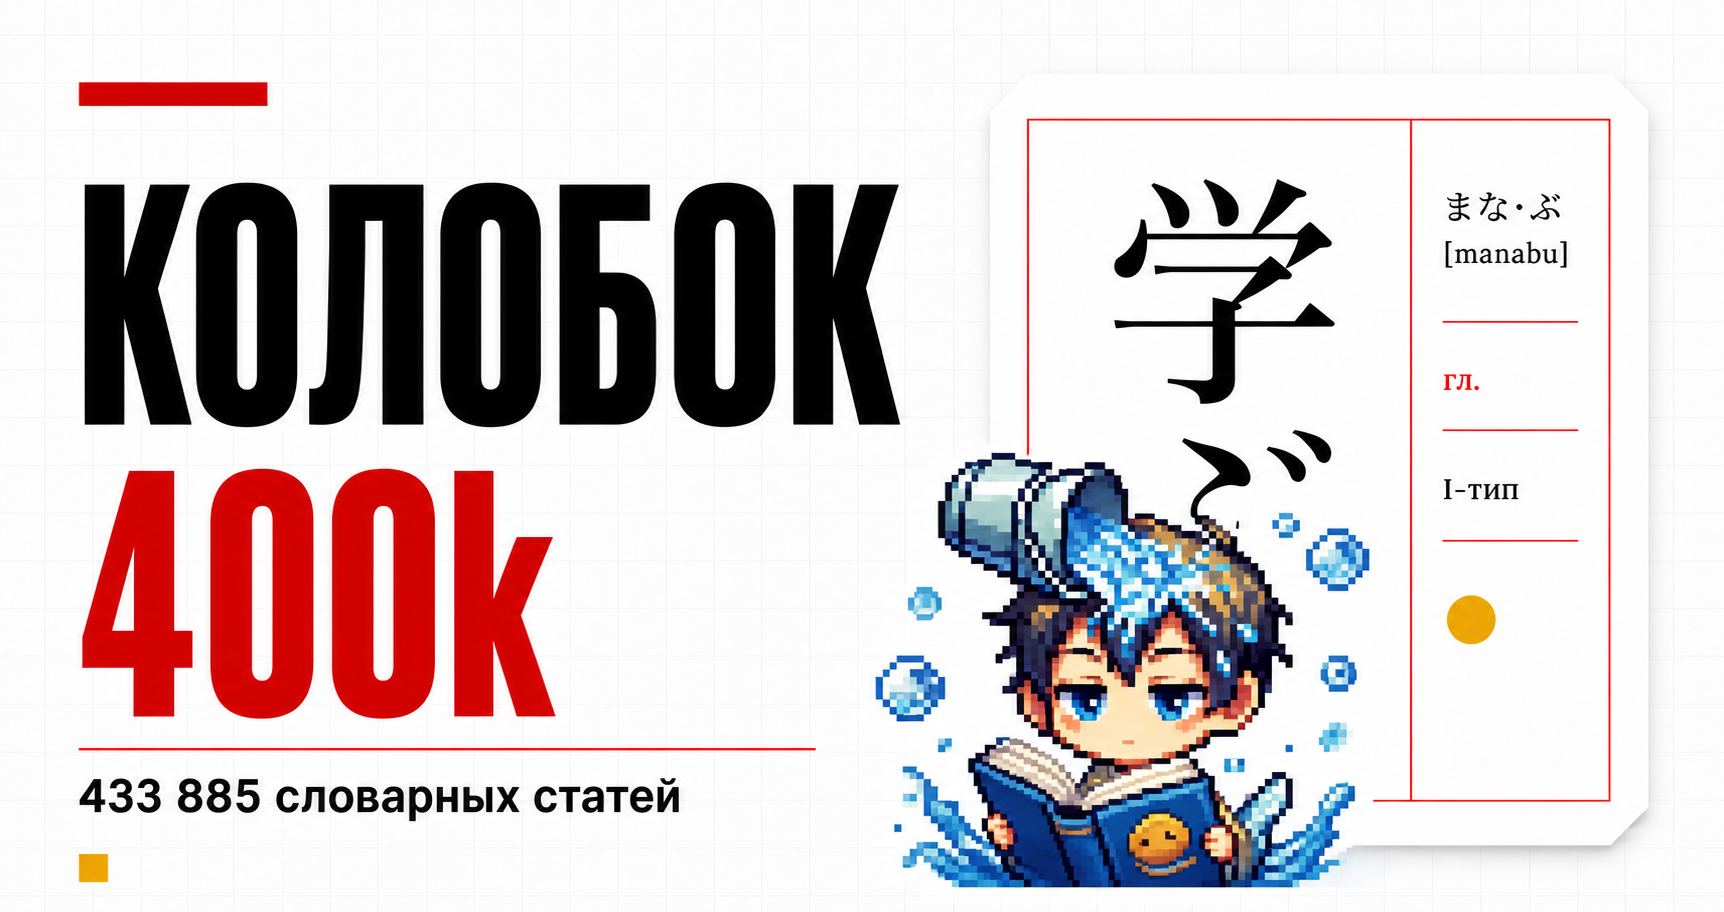
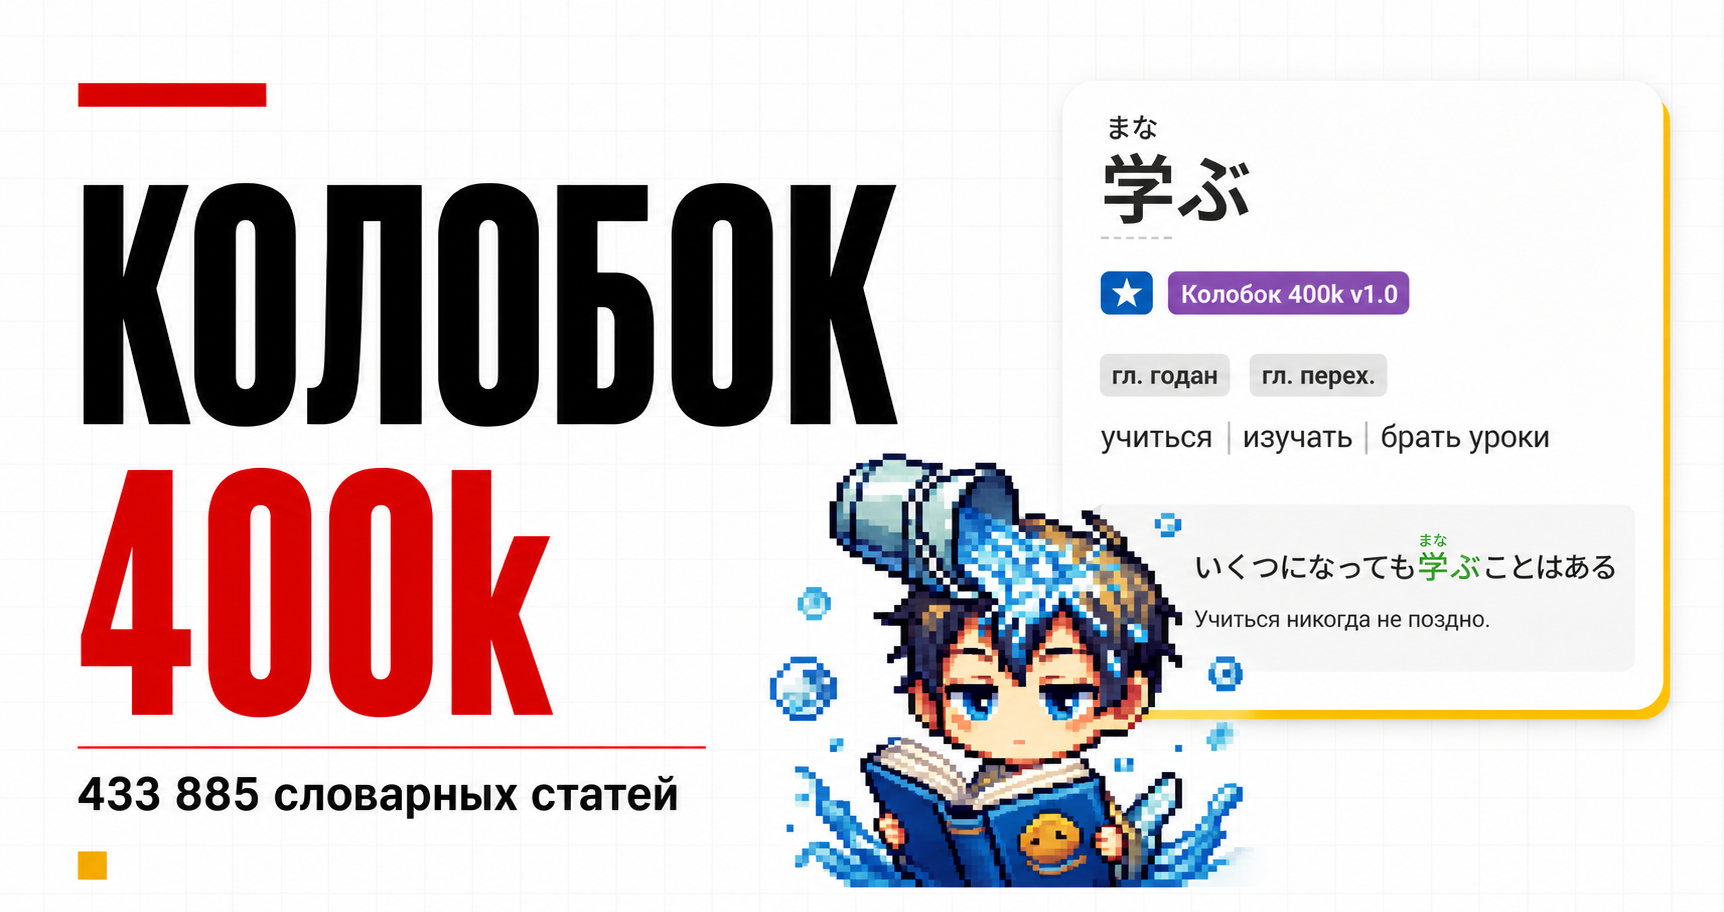
Align homepage previews with Yomitan entry styling
Make the 学ぶ demo and social thumbnails match the dictionary experience, so visitors see consistent tags, meanings, furigana, and examples before downloading.

diff --git a/site-home/index.html b/site-home/index.html
@@ -148,6 +148,14 @@
       --stats-ink: #ffffff;
       --stats-muted: rgba(255,255,255,.72);
       --stats-line: rgba(255,255,255,.2);
+      --dict-card: #ffffff;
+      --dict-card-muted: #f1f3f5;
+      --dict-border: #171714;
+      --dict-tag: #5f6062;
+      --dict-keyword: #16863c;
+      --dict-star: #0f70b7;
+      --dict-source: #9255b5;
+      --dict-example-line: #74777a;
       --serif: "Literata", Georgia, "Times New Roman", serif;
       --sans: "Golos Text", Inter, ui-sans-serif, system-ui, -apple-system, BlinkMacSystemFont, "Segoe UI", sans-serif;
       --japanese: "Hiragino Kaku Gothic ProN", "Yu Gothic", "Noto Sans JP", sans-serif;
@@ -167,6 +175,14 @@
       --grid: rgba(245, 240, 230, .035);
       --ghost: rgba(33,31,26,.68);
       --text-link-bg: rgba(33,31,26,.5);
+      --dict-card: #1f1f1f;
+      --dict-card-muted: #292929;
+      --dict-border: #5e5e5e;
+      --dict-tag: #666668;
+      --dict-keyword: #51e36b;
+      --dict-star: #1177c4;
+      --dict-source: #9b59bf;
+      --dict-example-line: #d8d8d8;
     }
     @media (prefers-color-scheme: dark) {
       :root:not([data-theme]) {
@@ -184,6 +200,14 @@
         --grid: rgba(245, 240, 230, .035);
         --ghost: rgba(33,31,26,.68);
         --text-link-bg: rgba(33,31,26,.5);
+        --dict-card: #1f1f1f;
+        --dict-card-muted: #292929;
+        --dict-border: #5e5e5e;
+        --dict-tag: #666668;
+        --dict-keyword: #51e36b;
+        --dict-star: #1177c4;
+        --dict-source: #9b59bf;
+        --dict-example-line: #d8d8d8;
       }
     }
     * { box-sizing: border-box; }
@@ -227,18 +251,24 @@
     .button-primary { color: #171714; border-color: var(--ink); background: var(--yellow); }
     .button-ghost { background: var(--ghost); }
     .release-link { display: inline-block; margin-top: 17px; color: var(--muted); font-size: 13px; text-underline-offset: 4px; }
-    .dictionary-card { position: relative; display: block; padding: 34px; color: inherit; background: var(--surface); border: 1px solid var(--ink); box-shadow: 13px 13px 0 var(--yellow); text-decoration: none; transform: rotate(1.1deg); }
-    .dictionary-card::before { content: "辞"; position: absolute; top: -54px; right: -22px; z-index: -1; color: rgba(232,70,42,.13); font-family: var(--japanese); font-size: 180px; line-height: 1; }
-    .dict-top { display: flex; justify-content: space-between; gap: 20px; padding-bottom: 18px; border-bottom: 1px solid var(--line); }
-    .term { font-family: var(--japanese); font-size: 54px; line-height: 1; }
-    .reading { margin-top: 7px; color: var(--muted); font-size: 14px; }
-    .dict-no { color: var(--red-dark); font-size: 11px; font-weight: 900; letter-spacing: .1em; text-transform: uppercase; }
-    .definition { margin: 24px 0 18px; font-family: var(--serif); font-size: 25px; line-height: 1.25; }
-    .example { padding: 15px 0; border-top: 1px solid var(--line); border-bottom: 1px solid var(--line); }
-    .example-jp { font-family: var(--japanese); font-size: 17px; }
-    .example-ru { margin-top: 5px; color: var(--muted); font-size: 14px; }
-    .tags { display: flex; flex-wrap: wrap; gap: 7px; margin-top: 17px; }
-    .tag { padding: 5px 8px; border: 1px solid var(--line); background: var(--paper); font-size: 11px; font-weight: 800; }
+    .dictionary-card { position: relative; display: block; padding: 28px; color: var(--ink); background: var(--dict-card); border: 1px solid var(--dict-border); border-radius: 3px; box-shadow: 11px 11px 0 var(--yellow); text-decoration: none; }
+    .dict-heading { min-height: 88px; }
+    .term { font-family: var(--japanese); font-size: 62px; font-weight: 400; line-height: 1; }
+    .term ruby, .example-keyword ruby { ruby-position: over; }
+    .term rt { color: var(--muted); font-size: .32em; font-weight: 500; }
+    .dict-source { display: flex; flex-wrap: wrap; gap: 10px; align-items: center; margin-top: 14px; }
+    .dict-star, .dict-source-name, .dict-tag { display: inline-flex; align-items: center; min-height: 34px; border-radius: 7px; color: #fff; font-weight: 800; line-height: 1; }
+    .dict-star { width: 42px; justify-content: center; background: var(--dict-star); font-size: 24px; }
+    .dict-source-name { padding: 0 12px; background: var(--dict-source); font-size: 18px; }
+    .dict-tags { display: flex; flex-wrap: wrap; gap: 8px; margin-top: 16px; }
+    .dict-tag { min-height: 30px; padding: 0 8px; background: var(--dict-tag); font-size: 17px; }
+    .definition { display: flex; flex-wrap: wrap; margin: 3px 0 0; font-size: 24px; line-height: 1.35; }
+    .definition span + span::before { content: "|"; margin: 0 7px; color: var(--muted); }
+    .example { margin-top: 12px; padding: 13px 15px; border-left: 5px solid var(--dict-example-line); border-radius: 10px; background: var(--dict-card-muted); }
+    .example-jp { font-family: var(--japanese); font-size: 23px; line-height: 1.65; }
+    .example-keyword { color: var(--dict-keyword); }
+    .example-keyword rt { font-size: .55em; font-weight: 600; }
+    .example-ru { margin-top: 1px; color: var(--body-copy); font-size: 16px; }
     .stats { border-top: 1px solid var(--stats-bg); border-bottom: 1px solid var(--stats-bg); background: var(--stats-bg); color: var(--stats-ink); }
     .stats-grid { display: grid; grid-template-columns: repeat(4, 1fr); }
     .stat { min-height: 154px; padding: 30px; border-right: 1px solid var(--stats-line); }
@@ -299,11 +329,13 @@
       .nav { display: none; }
       .hero { padding: 52px 0 72px; }
       h1 { font-size: clamp(38px, 10.4vw, 50px); }
-      .dictionary-card { padding: 24px; box-shadow: 8px 8px 0 var(--yellow); transform: none; }
-      .dictionary-card::before { right: 0; }
+      .dictionary-card { padding: 22px; box-shadow: 8px 8px 0 var(--yellow); }
       .author-character { width: calc(100% - 8px); transform: none; }
       .author-character img { box-shadow: 8px 8px 0 var(--yellow); }
-      .term { font-size: 44px; }
+      .term { font-size: 52px; }
+      .dict-source-name { font-size: 16px; }
+      .definition { font-size: 20px; }
+      .example-jp { font-size: clamp(16px, 4.4vw, 18px); }
       .stats-grid { grid-template-columns: 1fr; }
       .stat { min-height: 120px; border-right: 0; border-bottom: 1px solid var(--stats-line); }
       .section { padding: 72px 0; }
@@ -340,13 +372,24 @@
       </div>
 
       <a class="dictionary-card" href="comparison/" aria-label="Открыть сравнительную таблицу переводов">
-        <div class="dict-top">
-          <div><div class="term">学ぶ</div><div class="reading">まなぶ · manabu</div></div>
-          <div class="dict-no">Колобок<br>400k</div>
+        <div class="dict-heading">
+          <div class="term" lang="ja"><ruby>学<rt>まな</rt></ruby>ぶ</div>
         </div>
-        <div class="definition">учиться; изучать; усваивать знания</div>
-        <div class="example"><div class="example-jp">失敗から学ぶ。</div><div class="example-ru">Учиться на ошибках.</div></div>
-        <div class="tags"><span class="tag">глагол годан</span><span class="tag">переходный</span><span class="tag">частотное</span></div>
+        <div class="dict-source" aria-label="Источник словарной статьи">
+          <span class="dict-star" aria-hidden="true">★</span>
+          <span class="dict-source-name">Колобок 400k v1.0</span>
+        </div>
+        <div class="dict-tags">
+          <span class="dict-tag">гл. годан</span>
+          <span class="dict-tag">гл. перех.</span>
+        </div>
+        <div class="definition" lang="ru">
+          <span>учиться</span><span>изучать</span><span>брать уроки</span>
+        </div>
+        <div class="example">
+          <div class="example-jp" lang="ja">いくつになっても<span class="example-keyword"><ruby>学<rt>まな</rt></ruby>ぶ</span>ことはある</div>
+          <div class="example-ru" lang="ru">Учиться никогда не поздно.</div>
+        </div>
       </a>
     </section>
 

diff --git a/tests/test_homepage_card.py b/tests/test_homepage_card.py
@@ -1,0 +1,18 @@
+from pathlib import Path
+
+
+HOMEPAGE = Path(__file__).parents[1] / "site-home" / "index.html"
+
+
+def test_manabu_card_matches_requested_dictionary_entry() -> None:
+    source = HOMEPAGE.read_text(encoding="utf-8")
+
+    assert '<div class="term" lang="ja"><ruby>学<rt>まな</rt></ruby>ぶ</div>' in source
+    assert '<span class="dict-tag">гл. годан</span>' in source
+    assert '<span class="dict-tag">гл. перех.</span>' in source
+    assert '<span>учиться</span><span>изучать</span><span>брать уроки</span>' in source
+    assert (
+        'いくつになっても<span class="example-keyword">'
+        '<ruby>学<rt>まな</rt></ruby>ぶ</span>ことはある'
+    ) in source
+    assert "Учиться никогда не поздно." in source
